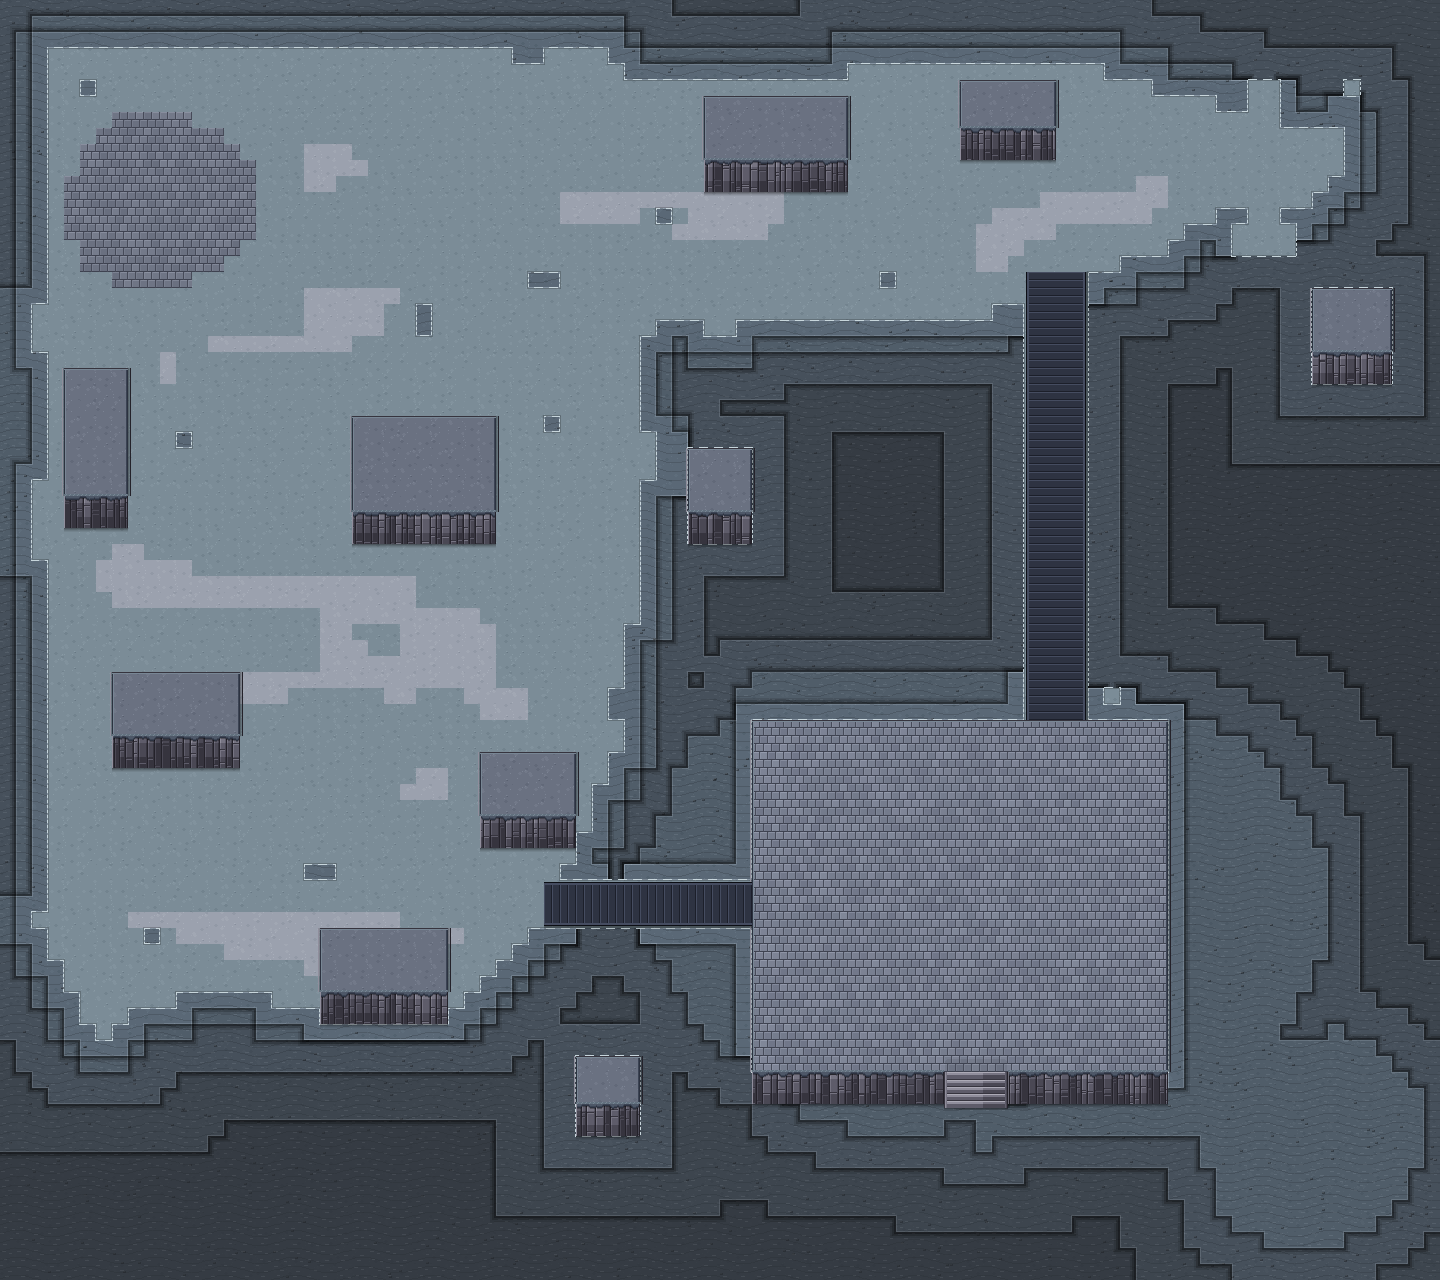
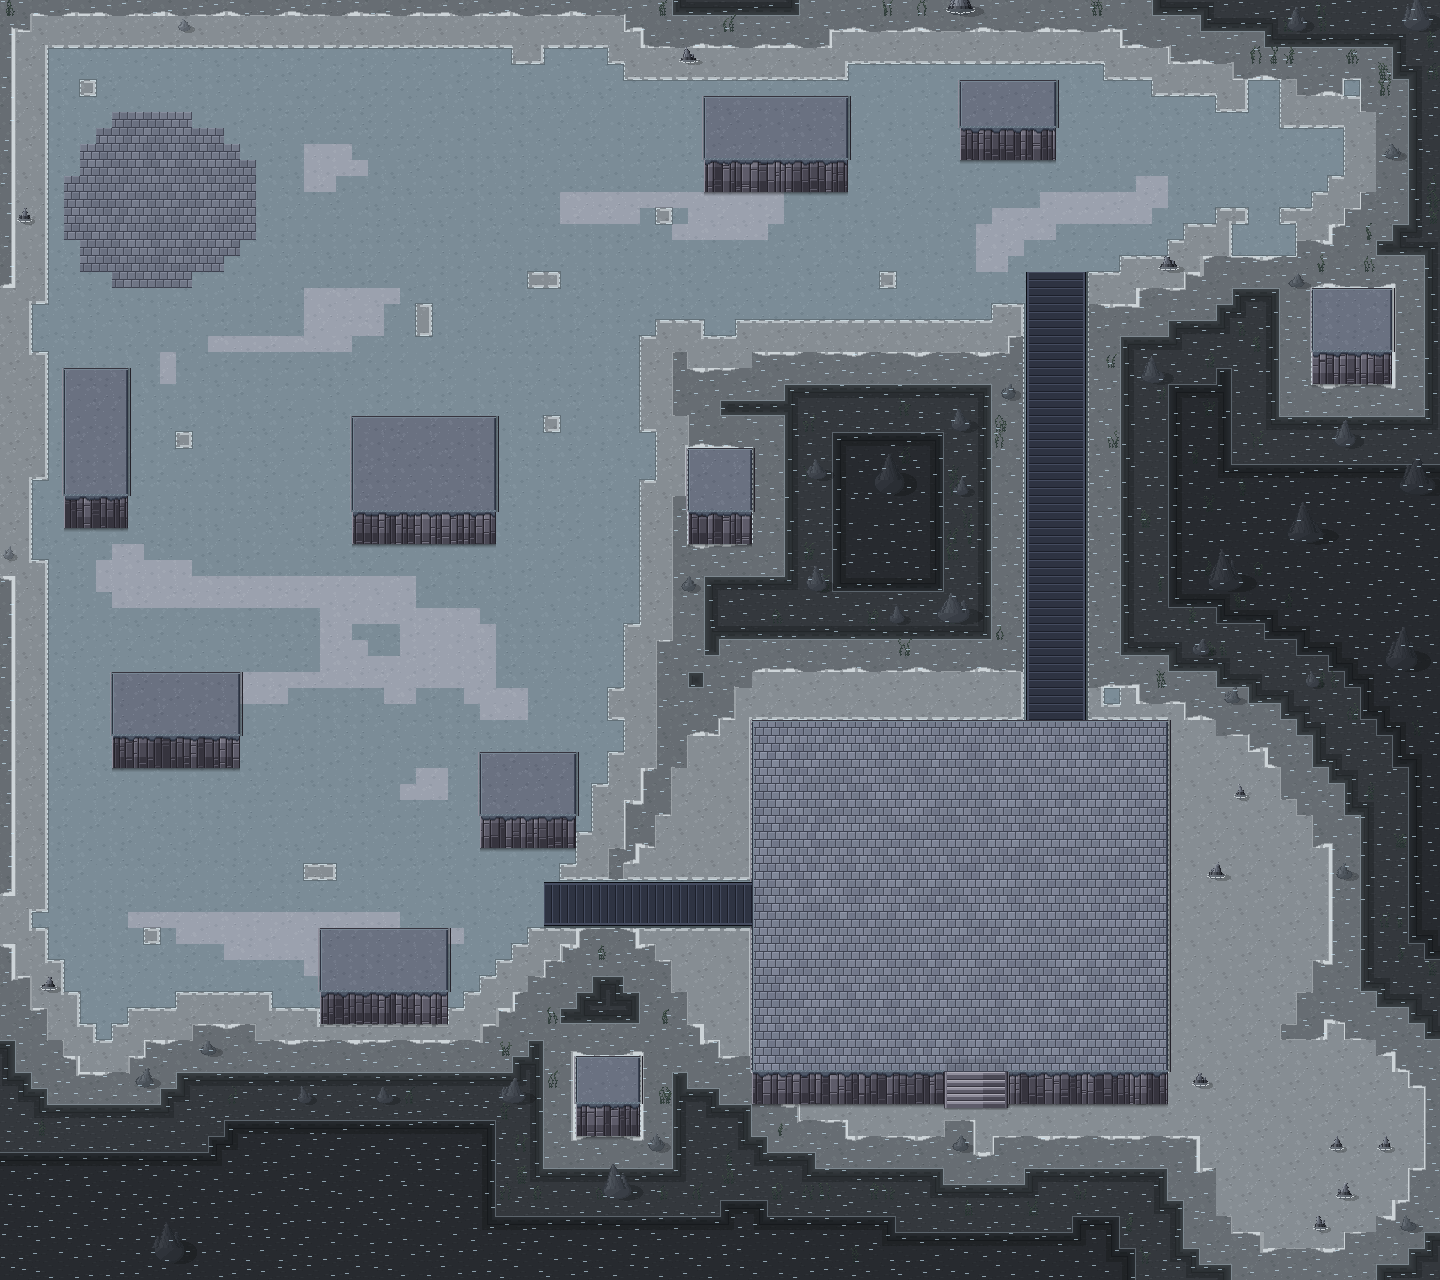
Karte 29: Meer im Stil von Karte 01 (terrassiert: Grund sichtbar, Stufenwaende, Felsen, Algen, Schaum), schwarzgrau und am 16er-Raster
Claude-Session: https://claude.ai/code/session_01SaoYHKhnro4LFcPJqjaPsq

diff --git a/tools/karte29_bauen.py b/tools/karte29_bauen.py
@@ -131,35 +131,47 @@ def bauen(frame=None, speichern=True):
         for dx in (-1, 0, 1):
             am_land |= np.roll(np.roll(lt, dy, 0), dx, 1)
     st_t = np.where(ft & am_land, 0, np.where(ft, 1, np.where(dist <= 2, 2, np.where(dist <= 5, 3, 4))))
-    grund = (strand.astype(np.float32) * np.array([0.78, 0.8, 0.84]))  # Meeresgrund: Sand, kuehl
-    yy_, xx_ = np.mgrid[0:Hp, 0:Wp]                                  # Sandrippeln und Steine am Grund (sichtbar)
-    rippel = ((yy_ + (4 * np.sin(xx_ / 11.0)).astype(int)) % 9) == 0
-    grund[rippel] *= 0.86
-    rs_g = np.random.RandomState(290)
-    for _ in range(Hp * Wp // 900):
-        gy, gx = rs_g.randint(2, Hp - 3), rs_g.randint(2, Wp - 4)
-        grund[gy:gy + 2, gx:gx + 3] *= 0.62
-        grund[gy, gx:gx + 2] = grund[gy, gx:gx + 2] * 1.0 + 30
-    def nahe(m, r):
-        return np.array(Image.fromarray((m * 255).astype(np.uint8)).filter(ImageFilter.GaussianBlur(r))) / 255.0
-    stufe = np.kron(st_t, np.ones((T, T), int))
-    deck = np.array([0.10, 0.26, 0.44, 0.60, 0.74], np.float32)[stufe][..., None]   # Wasserdeckung je Stufe
-    wfarbe = np.array([38, 41, 46], np.float32)                     # schwarzgrau
-    a = (grund * (1 - deck) + wfarbe * deck)
-    wl = np.roll(np.roll(tief_t, 2 * f, axis=1), f, axis=0).astype(np.float32).mean(axis=2)
-    glanz = (wl > np.percentile(wl, 93)) & (stufe >= 1)              # Wellenglanz (wandert)
-    a[glanz] = a[glanz] + 14
-    a = np.clip(a, 0, 255).astype(np.uint8)
-    for s_ in range(1, 5):                                           # sichtbare Abbruchkante an jeder Tiefenstufe (Nutzer):
-        oben_ = stufe < s_                                           # flachere Seite: helle Lippe (1 px) + Kontur,
-        tiefer = stufe >= s_                                         # tiefere Seite: dunkle Abbruchwand (Verlauf 5 px)
-        lippe = oben_ & dehnen(tiefer, 3)
-        kontur = tiefer & dehnen(oben_, 3)
-        a[lippe] = np.clip(a[lippe].astype(np.int16) + 22, 0, 255).astype(np.uint8)
-        a[kontur] = (a[kontur] * 0.55).astype(np.uint8)
-        for d_, fk in ((5, 0.72), (9, 0.82), (13, 0.9)):
-            w_ = tiefer & dehnen(oben_, d_) & ~kontur
-            a[w_] = (a[w_] * fk).astype(np.uint8)
+    # Wasser im Stil von Karte 01 (terrassiertes Meer: Grund sichtbar, Stufenwaende, Felsen, Algen, Schaum),
+    # nur schwarzgrau gefaerbt und mit Stufen genau am 16er-Raster (Nutzer)
+    import wasser_details as wd
+    stufe_px = np.kron(np.where(lt, -1, np.where(ft, 0, np.where(dist <= 2, 1, np.where(dist <= 5, 2, 3)))), np.ones((T, T), int))
+    wasser_m = stufe_px >= 0
+    start = [0, wd.FLACH, wd.STUFE1, wd.STUFE2]
+    spanne = [wd.FLACH - 9, wd.STUFE1 - wd.FLACH - 1, wd.STUFE2 - wd.STUFE1 - 1, 400]   # Schaum genau an der Stufenkante
+    d = np.zeros((Hp, Wp), np.float32)
+    for k_ in range(4):
+        tiefer_ = stufe_px >= k_
+        abst = np.full((Hp, Wp), 999, np.int32)                      # Pixelabstand zur flacheren Stufe (Chebyshev = Raster)
+        cur = ~tiefer_
+        abst[cur] = 0
+        for i_ in range(1, spanne[k_] + 2 if k_ < 3 else 120):
+            cur2 = dehnen(cur, 3)
+            neu = cur2 & ~cur
+            if not neu.any():
+                break
+            abst[neu] = i_
+            cur = cur2
+        sel = stufe_px == k_
+        d[sel] = start[k_] + np.minimum(abst[sel], spanne[k_])
+    a_alt = {n_: getattr(wd, n_) for n_ in ('FARBEN', 'MISCH', 'SCHAUM', 'ALGE', 'WELLIG', 'N_FRAMES', '_kacheln', 'BRAUN')}
+    kach = wd._kacheln
+    wd.FARBEN = [wd.H('#7c868c'), wd.H('#4e565c'), wd.H('#363c42'), wd.H('#24282d')]
+    wd.MISCH = [0.30, 0.46, 0.62, 0.76]
+    wd.SCHAUM = wd.H('#cdd4d8')
+    wd.ALGE = [wd.H(c) for c in ('#1c2a26', '#28392f', '#3a4e3e', '#52664f')]
+    wd.WELLIG = False
+    wd.BRAUN = [wd.H(c) for c in ('#1e2026', '#2e3139', '#41454f', '#565b66', '#6e7480', '#8a909b', '#a8aeb8')]   # Felsen grau
+    wd.N_FRAMES = N_FRAMES
+    def grau_k(name, Hh_, W_):                                       # Grund grau (Sand hellgrau, Tiefe dunkelgrau)
+        t_ = kach(name, Hh_, W_).mean(axis=2, keepdims=True)
+        return t_ * np.array([0.74, 0.77, 0.8], np.float32) if name == 'sand' else t_ * np.array([0.5, 0.52, 0.55], np.float32)
+    wd._kacheln = grau_k
+    wd.FELSEN_PROTOKOLL.clear()
+    a = strand.copy()
+    img_w = wd.meer_terrassen(Image.fromarray(a), np.ones((Hp, Wp), bool), frame, np.zeros((Hp, Wp), bool), maske=wasser_m, dist=d)
+    for n_, v_ in a_alt.items():
+        setattr(wd, n_, v_)
+    a = np.array(img_w.convert('RGB'))
     tief = ~flach & ~land
     # Strand, heller Sand, Pfuetzen bleiben flaches Wasser
     a[land] = strand[land]

diff --git a/tools/wasser_details.py b/tools/wasser_details.py
@@ -219,6 +219,7 @@ def _kacheln(name, Hh, W):
 # Abstand vom Strand (px): Flachwasser | Schaum | Mittel | Stufe 1 | Platz | Stufe 2 | Platz | Tiefsee
 FLACH, SCHAUM_D, STUFE1, STUFE2 = 24, (22, 26), 68, 138
 WAND = 10
+WELLIG = True                                                   # False: Stufen genau nach dem uebergebenen Abstandsfeld (Raster)
 FARBEN = [H('#5fcfd6'), H('#38a8cc'), H('#2a7cbc'), H('#1d58a0')]   # Wasser je Zone (flach -> tief)
 MISCH = [0.45, 0.62, 0.78, 0.9]                                  # Anteil Wasserfarbe ueber dem Grund
 
@@ -255,7 +256,8 @@ def meer_terrassen(img, region, frame=None, meiden=None, maske=None, dist=None):
     if dist_vorgabe is not None:                                   # eigenes Abstandsfeld (z. B. Flach/Tief nach Vorlage)
         d = dist_vorgabe.astype(np.float32).copy()
     yy, xx = np.mgrid[0:Hh, 0:W]
-    d = d + 3.0 * np.sin(xx / 23.0) + 2.0 * np.sin(xx / 9.0 + yy / 31.0)
+    if WELLIG:
+        d = d + 3.0 * np.sin(xx / 23.0) + 2.0 * np.sin(xx / 9.0 + yy / 31.0)
     d[~m] = -1
     sand = _kacheln('sand', Hh, W)
     meer = _kacheln('meer', Hh, W)
